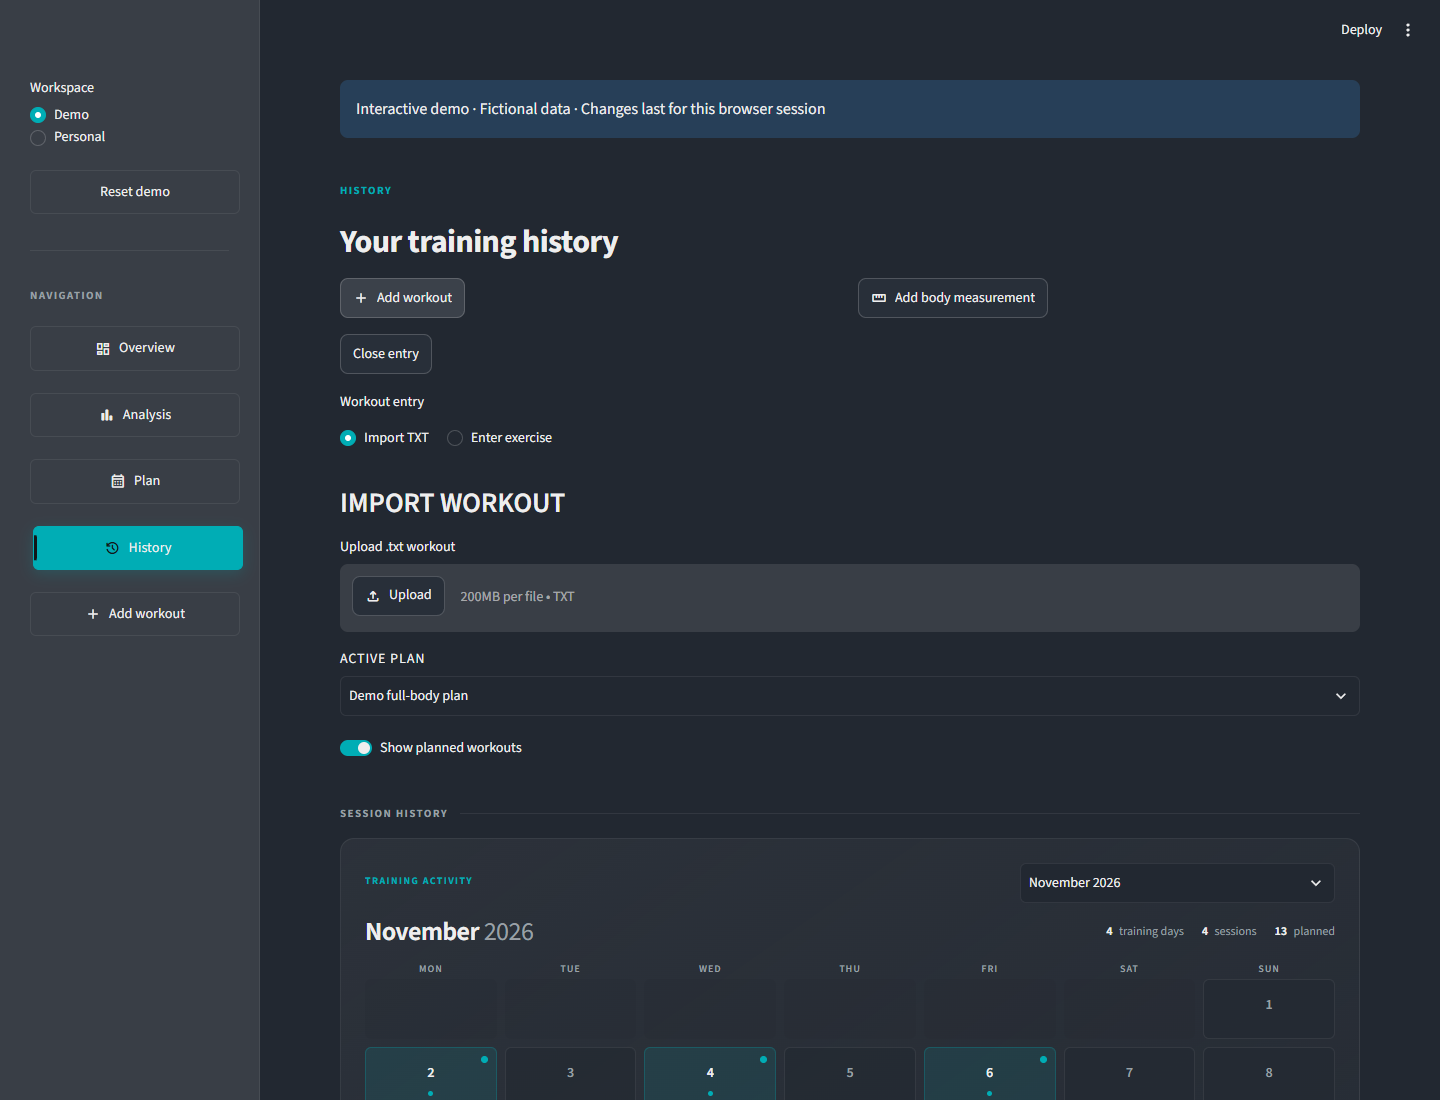
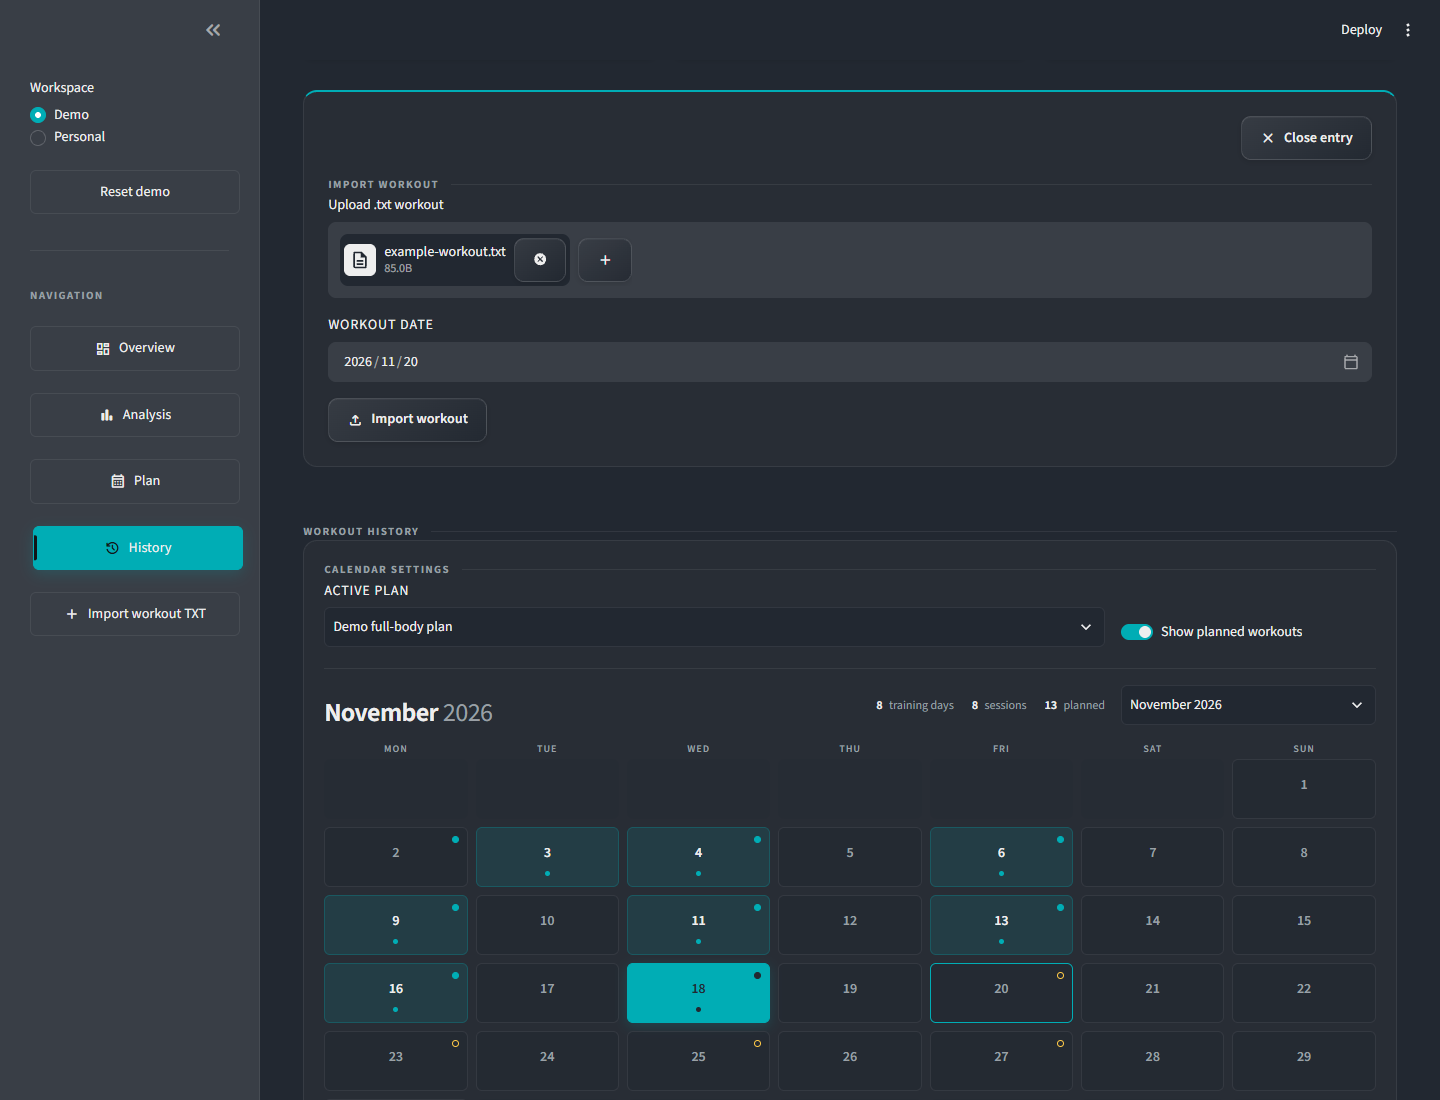
Refresh README screenshots and update interface guide

diff --git a/docs/user-guide.md b/docs/user-guide.md
@@ -116,7 +116,7 @@ without a view switch or a separate Timed sets disclosure. **Body measurements**
 summary and trend without a separate Measurement records table. Entry and
 correction remain available in History.
 
-**Plan** uses visible **Create a new plan** and **Edit plan** actions. Its editor
+**Plan** uses visible **Create a new plan**, **Edit plan** and **Delete plan** actions. Its editor
 keeps plan details, workouts/exercises and saving on one page. Training blocks
 are optional; an existing block is preserved when editing a version.
 
@@ -124,10 +124,12 @@ are optional; an existing block is preserved when editing a version.
 **Body measurements** actions. One entry panel opens at a time. Recorded sessions
 occupy the main column below the full-width calendar. **Calendar settings**,
 including the active plan and planned-workout toggle, stay visible above the
-calendar grid. Each set shows its reserve; missing RIR stays unknown.
-Corrections and deletion are under **Session tools** below the recorded sets;
-exercise conventions remain under **Data settings**. Open **Plan assignments** below the logs to link
-planned workouts.
+calendar grid. Each exercise keeps its set tiles on one horizontal row; scroll
+the list sideways on smaller screens. Every set shows its reserve; missing RIR
+stays unknown. **Link to plan** and **Tools** sit in each session's header.
+Tools opens a dialog with **Set labels**, **Set load**, **Replacements** and
+**Delete session** tabs. **Data settings**, beside the History title, opens
+exercise-wide conventions and unresolved historical loads.
 
 ## Your first plan and workout
 
@@ -135,8 +137,8 @@ planned workouts.
    exercises, for example `3 sets × 6–10 reps`.
 2. **Import a workout in History → Import workout TXT.** Enter an exercise manually or
    import a TXT note. Record RIR when you know it.
-3. **Link the session to its planned workout in the History calendar.**
-   This tells the app which prescription the log belongs to.
+3. **Choose Link to plan in the recorded session's header.** Select its plan,
+   planned week and workout. This tells the app which prescription the log belongs to.
 4. **Read Analysis, then Overview.** Analysis explains recorded results;
    Overview shows the upcoming target when enough comparable evidence exists.
 
@@ -223,12 +225,13 @@ automatically from its saved profile, confirmed history or catalog rules.
 External-load exercises have no type selector; bodyweight exercises show only
 the relevant body-mass/assistance fields.
 
-History shows the saved load components.
-**Body mass and load details** corrects an individual set.
-**Exercise load settings → Edit exercise conventions** is an optional correction
-tool for the exact catalog exercise. It remembers how kilograms are written in
-TXT notes and how unspecified old entries should be interpreted. An unresolved
-history list identifies exercises that need a one-time decision.
+History shows the saved load components. **Tools → Set load** corrects an
+individual set. **Data settings → Exercise settings** remembers how kilograms
+are written in TXT notes and how unspecified old entries should be interpreted
+for the exact catalog exercise. **Unresolved sets** lists exercises and their
+affected set counts; **Edit** opens that exercise's settings. **Save changes**
+applies the convention to that exercise across sessions and resolves its
+unspecified historical loads where possible.
 Normalized sets retain an archived original. **Restore original entry** restores
 that snapshot unless the set was subsequently edited.
 
@@ -316,13 +319,15 @@ The exercise profile and earlier body-mass measurement supply the other load det
 
 ### Link a workout or confirm a replacement
 
-In **History**, select a planned calendar day and link its recorded session.
-The actual workout may be on another date. A session belongs to one planned slot;
-removing a link preserves its log.
+In **History**, select the recorded day and choose **Link to plan** beside the
+session title. Choose a plan, planned week and workout in the dialog. The actual
+workout may be on another date. A linked session shows its planned workout's
+name; select it to change or remove the link. A session belongs to one planned
+slot; removing a link preserves its log.
 
-If you used another exercise, open **Confirm exercise replacements** on the
-linked workout. For example, Machine Chest Press can cover a Barbell Bench Press
-position for that session. Their performance histories stay separate.
+If you used another exercise, open **Tools → Replacements** in that session's
+header. For example, Machine Chest Press can cover a Barbell Bench Press position
+for that session. Their performance histories stay separate.
 
 <details>
 <summary>Calendar and matching rules</summary>
@@ -336,7 +341,7 @@ position for that session. Their performance histories stay separate.
   not confirm a replacement. Replacements must use the same unit: reps or seconds.
 - Confirmed replacements reserve the recorded exercise for one plan position.
   Remaining exact-ID sets are allocated in plan order without double counting.
-- Unlinking/deleting a session removes its replacement approvals.
+- Changing/removing a link or deleting a session removes its replacement approvals.
   Deleting the session also removes the link; unlinking alone keeps the workout.
 - Analysis uses scheduled dates for plan periods and loads moved linked sessions
   in full. A moved workout counts as recorded, but not on the planned day.
@@ -350,10 +355,19 @@ fictional data without a password. Personal asks for the owner's password before
 loading saved records. **Log out**, or switching back to Demo, closes personal
 access and clears the current editor state. See [hosted access setup](public-demo.md).
 
-Captured 10 November 2026 with Streamlit 1.66.1 and entirely fictional data
-generated by the public sandbox. Desktop captures use 1440 px; mobile captures
-use 390 px. Images show the interface at capture time; see the
+Captured 20 November 2026 with Streamlit 1.66.1 and entirely fictional data
+generated by the public sandbox. Desktop browser width is 1440 px; mobile width
+is 390 px. Session detail images focus on the recorded-session panel. Images
+show the interface at capture time; see the
 [v1.0.0 release notes](releases/v1.0.0.md) for release scope.
+
+<details>
+<summary>Recorded progress and next workout</summary>
+
+![Recorded progress and recent observations](../screenshots/Overview.png)
+![Next workout and per-set targets](../screenshots/Next_Workout.png)
+
+</details>
 
 <details>
 <summary>Hosted workspace and owner login</summary>
@@ -366,6 +380,7 @@ use 390 px. Images show the interface at capture time; see the
 <details>
 <summary>Analysis: exercise, plan, muscles and body measurements</summary>
 
+![Exercise trend ranking](../screenshots/Analysis_Progress.png)
 ![Exercise progress](../screenshots/Analysis_Exercise.png)
 ![Plan consistency](../screenshots/Analysis_Consistency.png)
 ![Muscle set allocation](../screenshots/Analysis_Muscles.png)
@@ -378,8 +393,18 @@ use 390 px. Images show the interface at capture time; see the
 
 ![Weekly plan summary](../screenshots/Plan.png)
 ![One exercise edited at a time](../screenshots/Plan_Editor.png)
-![Calendar, assignments and recorded sessions](../screenshots/History.png)
+![Workout calendar and visible data settings action](../screenshots/History.png)
+![Single-line sets and session header actions](../screenshots/History_Session.png)
 ![On-demand TXT import](../screenshots/History_Import.png)
+
+</details>
+
+<details>
+<summary>Session actions and exercise-wide settings</summary>
+
+![Link or change a session's planned workout](../screenshots/Session_Link.png)
+![Correct loads in the session tools dialog](../screenshots/Session_Tools.png)
+![Exercise-wide load conventions](../screenshots/Data_Settings.png)
 
 </details>
 
@@ -387,8 +412,10 @@ use 390 px. Images show the interface at capture time; see the
 <summary>Mobile layouts</summary>
 
 ![Stacked training overview](../screenshots/Overview_Mobile.png)
+![Upcoming workout targets on mobile](../screenshots/Next_Workout_Mobile.png)
 ![Compact exercise editor](../screenshots/Plan_Editor_Mobile.png)
-![Workout calendar and session logs](../screenshots/History_Mobile.png)
+![Recorded session and header actions on mobile](../screenshots/History_Mobile.png)
+![Exercise load settings on mobile](../screenshots/Data_Settings_Mobile.png)
 
 </details>
 

diff --git a/README.md b/README.md
@@ -20,7 +20,7 @@ Demo browsing never connects to the personal database. Under the same URL,
 the owner can choose **Personal** and unlock the saved plan with a password.
 The application is designed for one owner, without registration or user accounts.
 
-![Training overview and next workout](screenshots/Overview.png)
+![Recorded progress and recent observations](screenshots/Overview.png)
 
 ## Problem and approach
 
@@ -62,6 +62,19 @@ The [user guide](docs/user-guide.md) contains walkthroughs, import examples and
 the [full screenshot gallery](docs/user-guide.md#screenshots).
 [Calculation rules](docs/calculation-rules.md) and
 [recommendation rules](docs/progression-rules.md) explain how results are derived.
+
+## Interface
+
+Current desktop views, captured from the fictional demo on 20 November 2026.
+Session actions and exercise settings open in dialogs beside the workout history.
+
+| Training plan | Recorded session |
+| --- | --- |
+| ![Weekly plan and exercise targets](screenshots/Plan.png) | ![Single-line sets with plan linking and session tools](screenshots/History_Session.png) |
+| **Session tools** | **Exercise load settings** |
+| ![Set corrections in the session tools dialog](screenshots/Session_Tools.png) | ![Exercise-wide load settings](screenshots/Data_Settings.png) |
+
+See the [full gallery, including mobile layouts](docs/user-guide.md#screenshots).
 
 ## My role and engineering decisions
 
